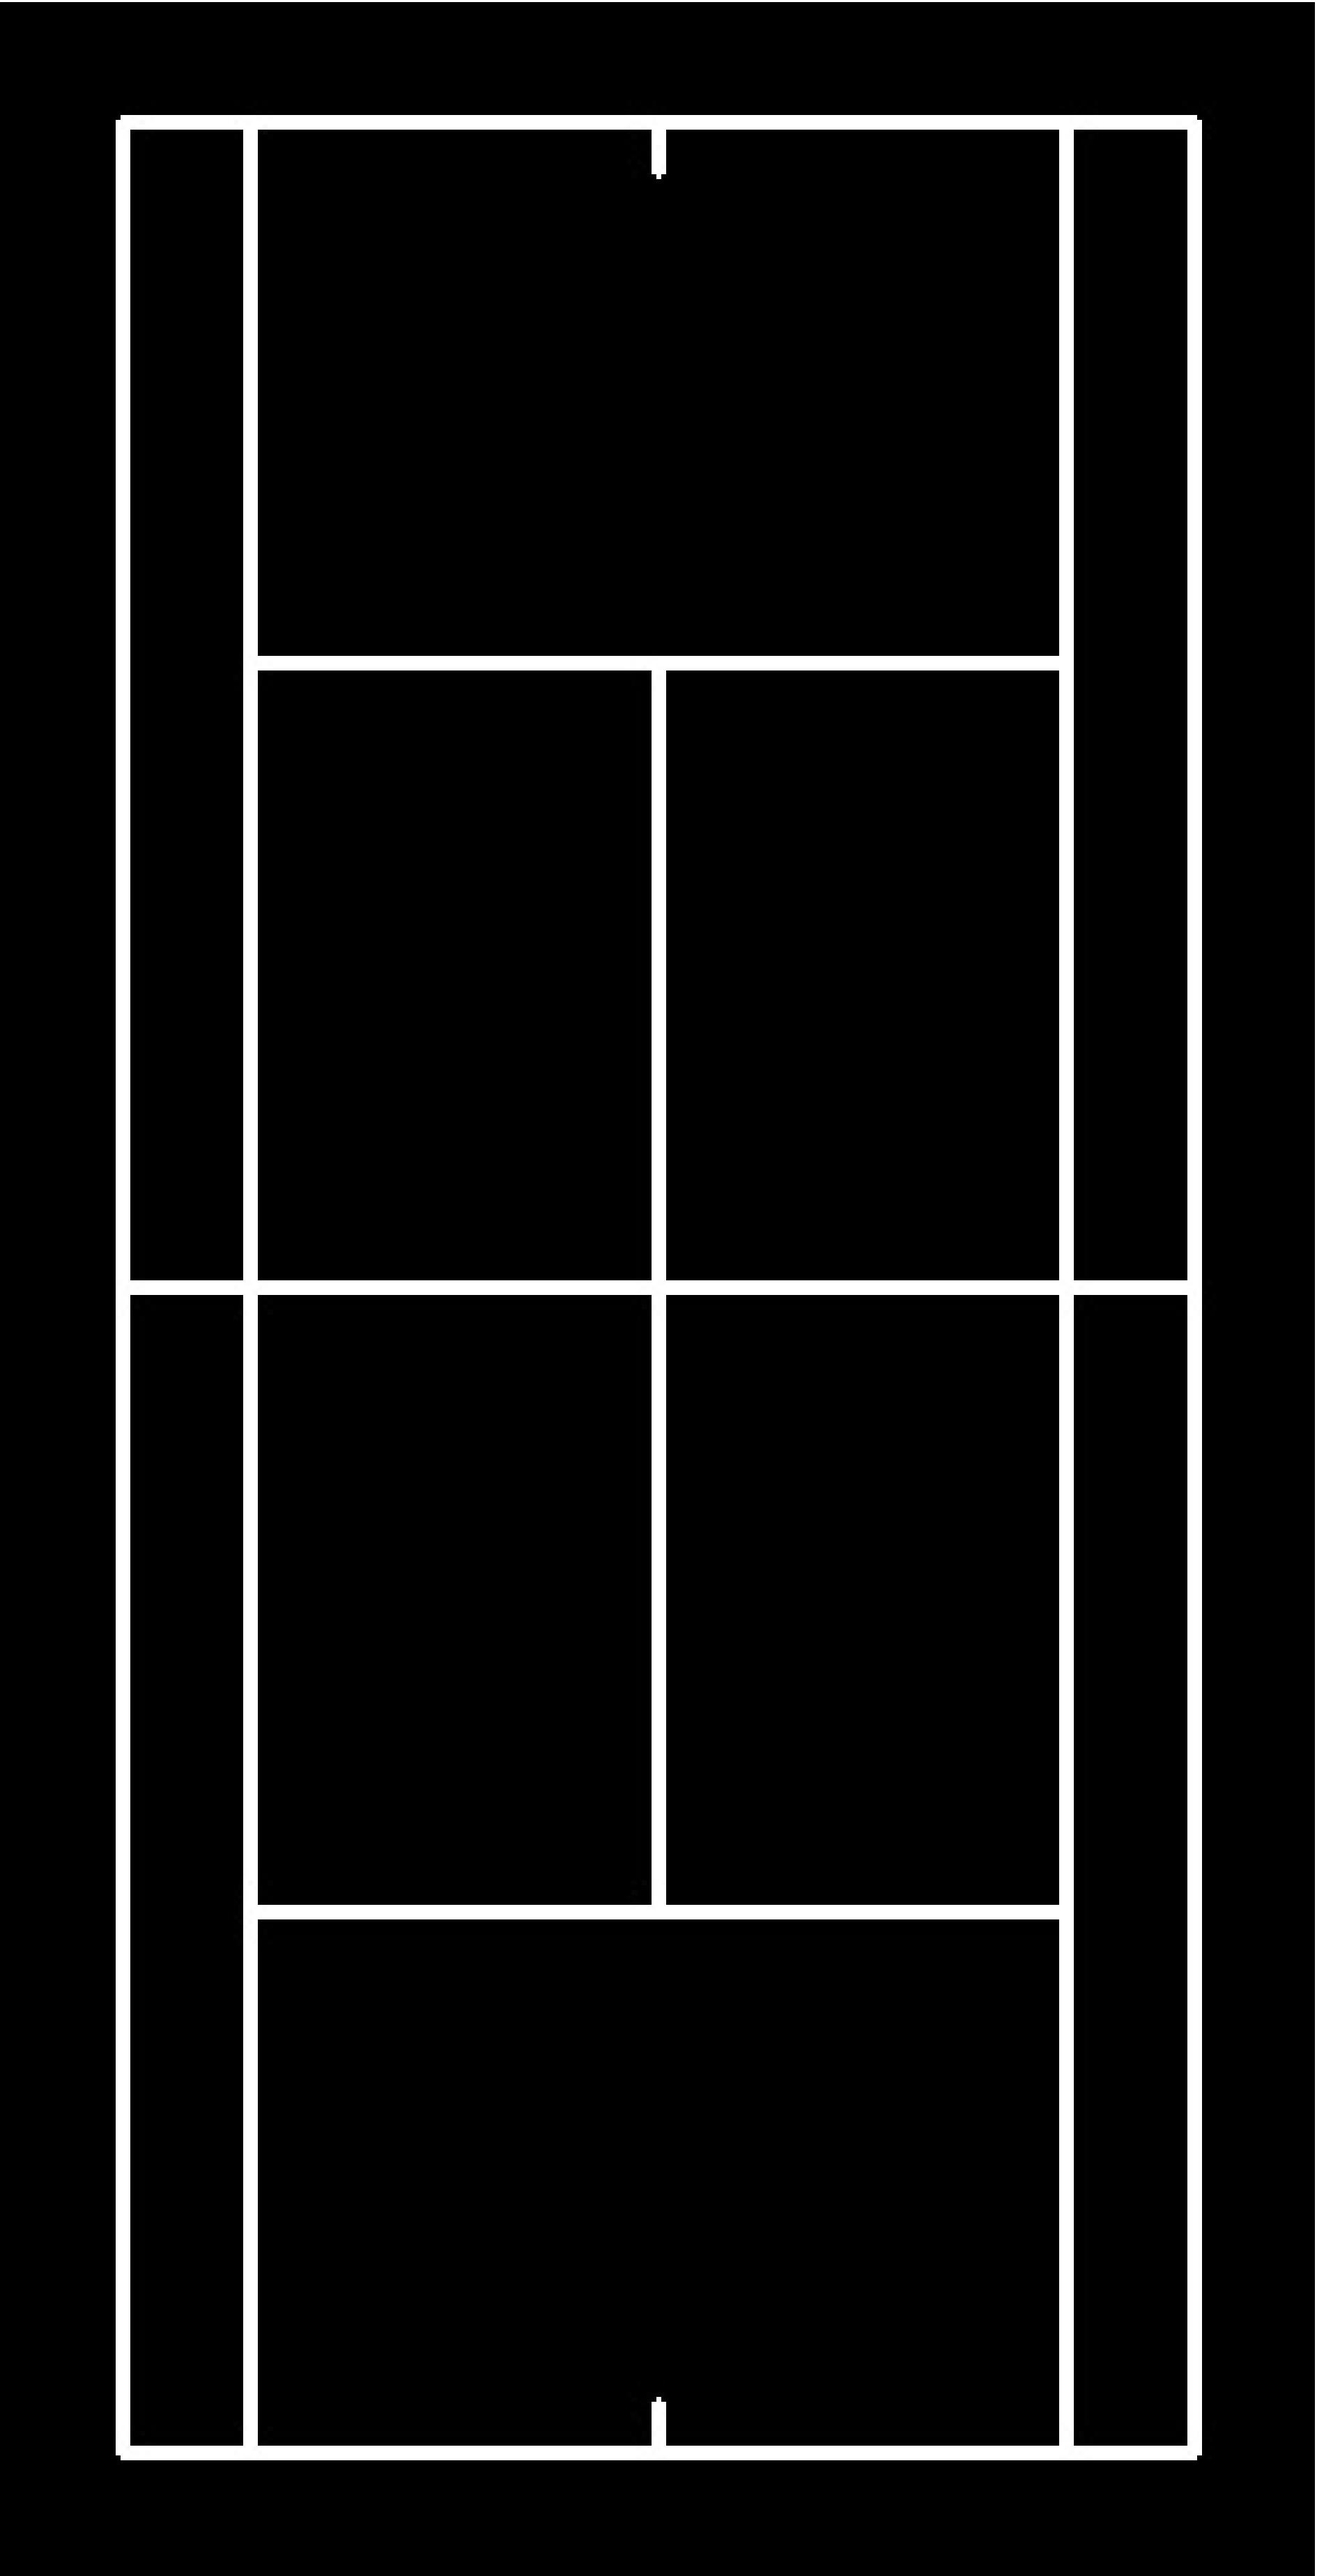
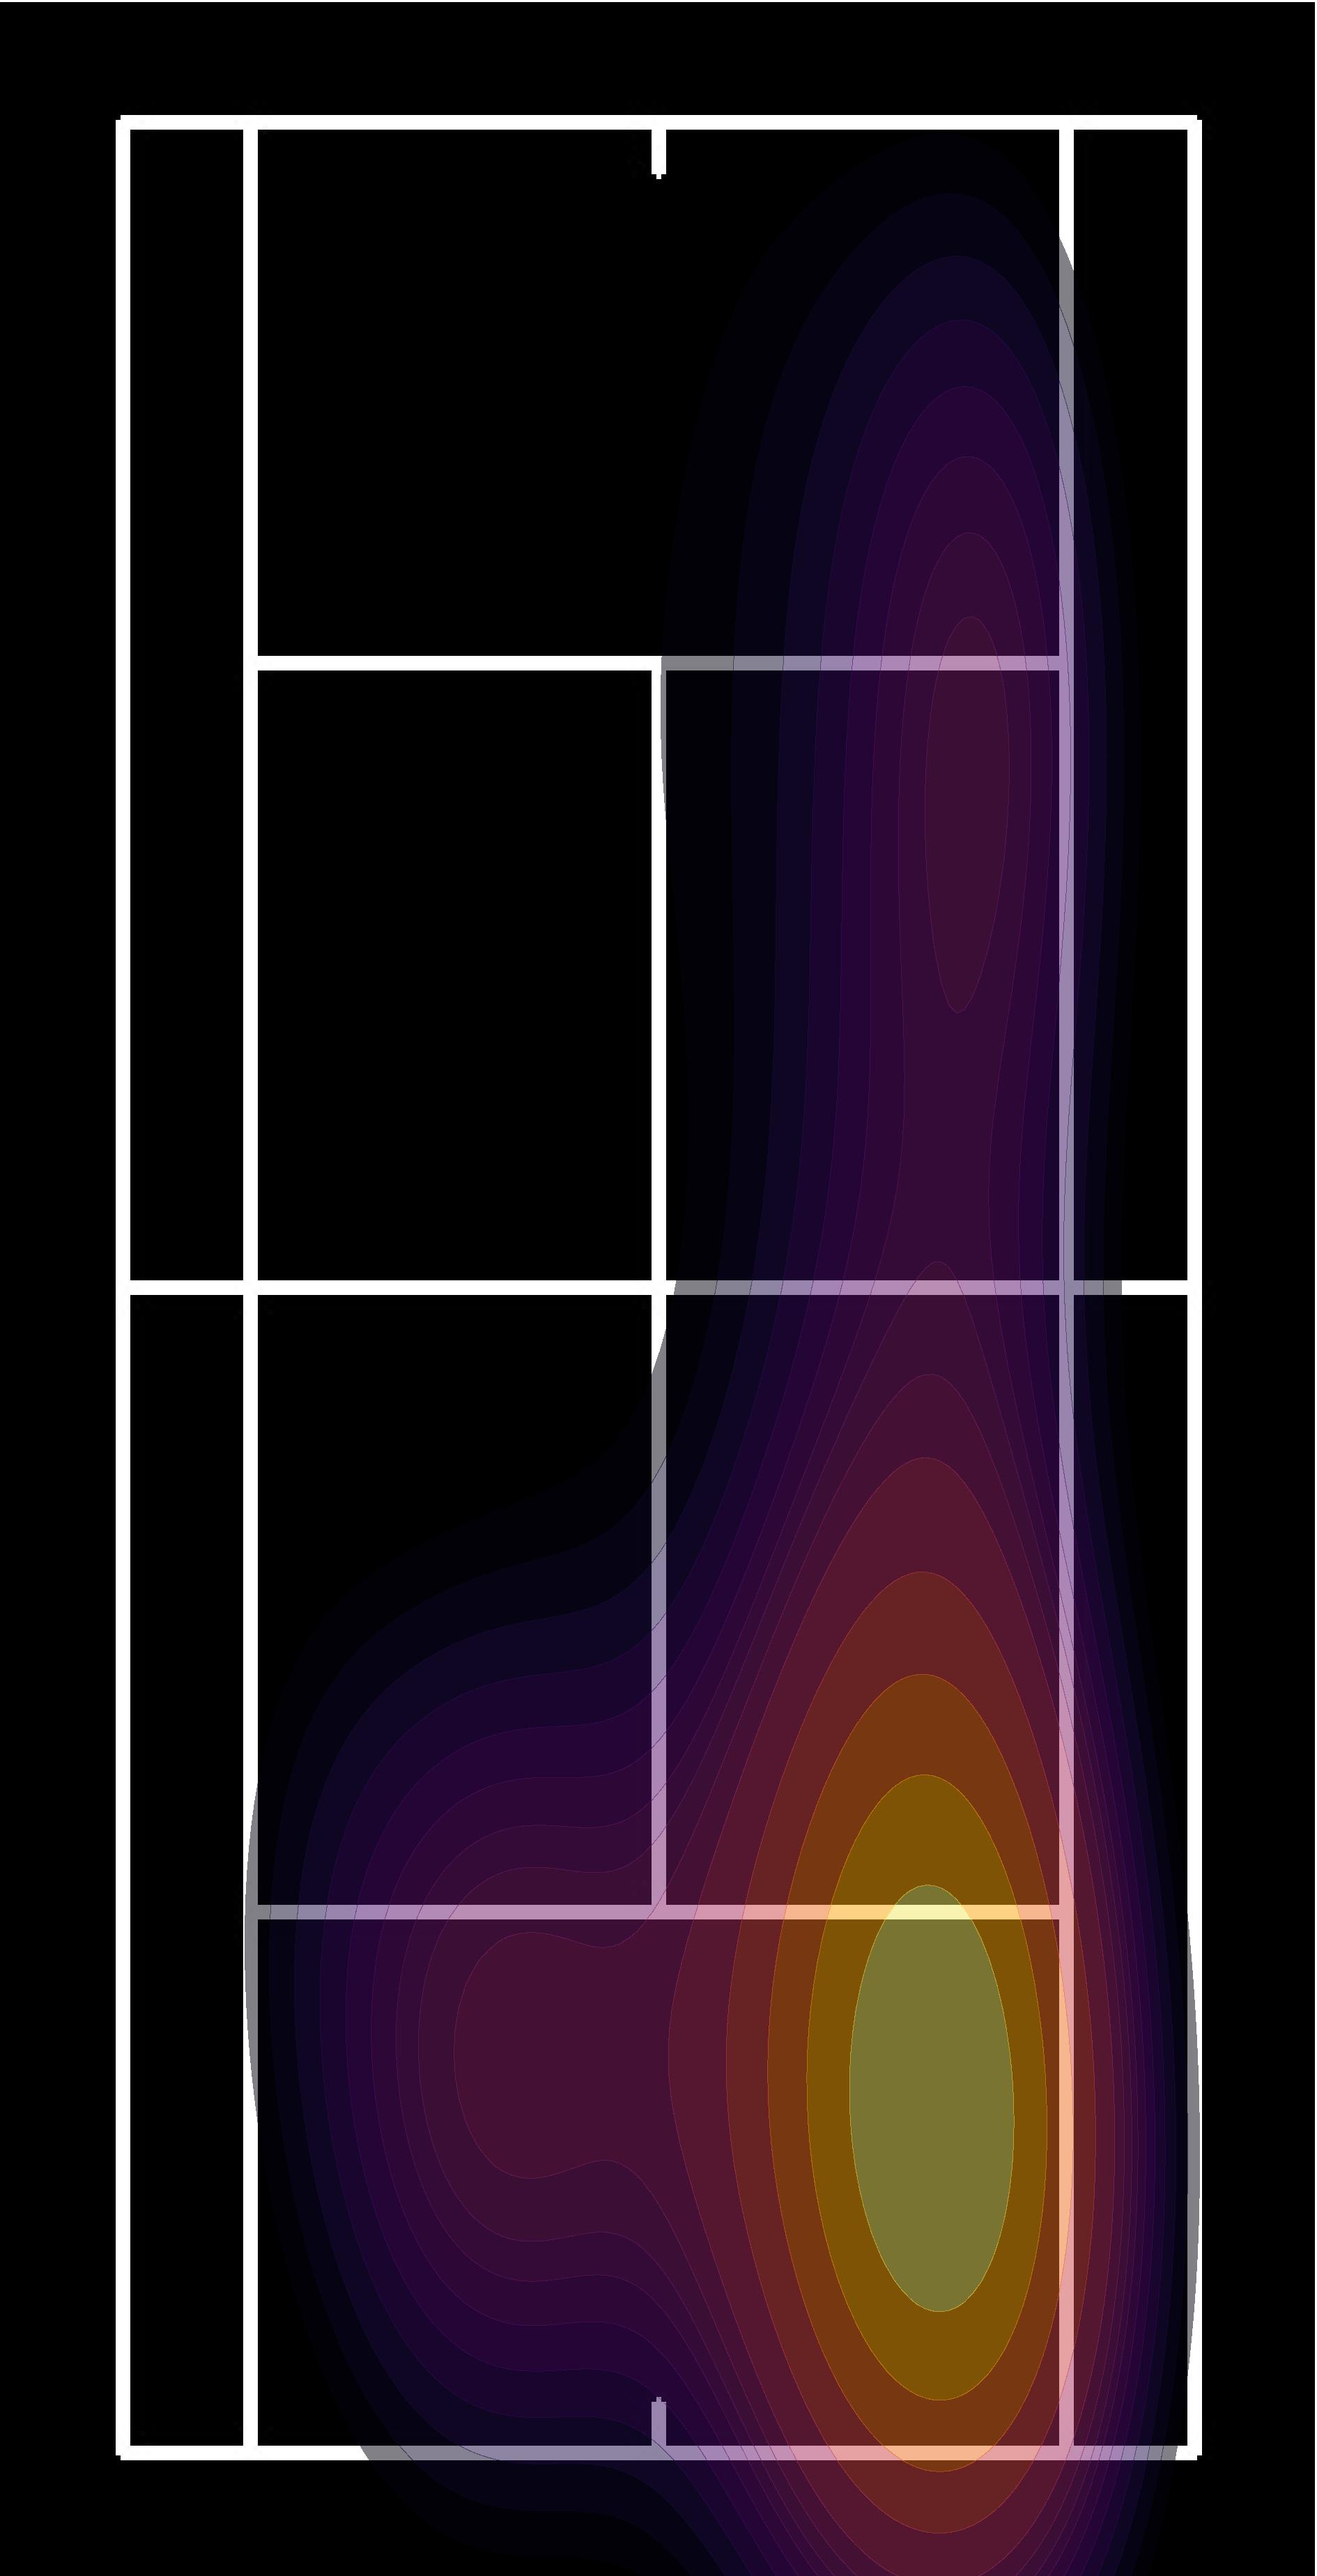
Minor changes

diff --git a/Front-End-Vite/client/src/pages/VideoPage.jsx b/Front-End-Vite/client/src/pages/VideoPage.jsx
@@ -1,7 +1,7 @@
 import React from "react";
 import axios from "axios";
 import { useRef, useState, useEffect } from "react";
-import video from "../../../../Videos Tenis para Analizar/Video Ary 3 Saque.mp4";
+import video from "../../../../Videos Tenis para Analizar/InkedInkedTennisBrothersVideo1080p.mp4";
 import "../stylesheets/VideoPageStylesheets/VideoPage.css";
 import { Button, IconButton } from "@mui/material";
 import ChevronLeftIcon from "@mui/icons-material/ChevronLeft";
@@ -31,7 +31,9 @@ function VideoPage() {
     { x: 300, y: 300, second: 20.0 },
   ];*/
 
-  const pts_pique = [[[100, 194], 1.4], [[65, 126], 2.03], [[61, 192], 2.77], [[74, 357], 3.03], [[80, 399], 3.43], [[54, 378], 5.7], [[4, 50], 9.07], [[91, 83], 10.93], [[42, 385], 12.53], [[30, 447], 17.97], [[2, 295], 21.33], [[121, 466], 23.6], [[122, 427], 23.63], [[123, 380], 23.67], [[124, 329], 23.7], [[124, 270], 23.73], [[125, 208], 23.8], [[126, 143], 23.83], [[149, 24], 25.93], [[145, 80], 26.1], [[160, 422], 26.87], [[160, 437], 26.9], [[158, 451], 26.93], [[154, 416], 27.0], [[143, 417], 27.03], [[158, 425], 27.13]]
+  //const pts_pique = [[[100, 194], 1.4], [[65, 126], 2.03], [[61, 192], 2.77], [[74, 357], 3.03], [[80, 399], 3.43], [[54, 378], 5.7], [[4, 50], 9.07], [[91, 83], 10.93], [[42, 385], 12.53], [[30, 447], 17.97], [[2, 295], 21.33], [[121, 466], 23.6], [[122, 427], 23.63], [[123, 380], 23.67], [[124, 329], 23.7], [[124, 270], 23.73], [[125, 208], 23.8], [[126, 143], 23.83], [[149, 24], 25.93], [[145, 80], 26.1], [[160, 422], 26.87], [[160, 437], 26.9], [[158, 451], 26.93], [[154, 416], 27.0], [[143, 417], 27.03], [[158, 425], 27.13], [[120, 357], 29.27], [[132, 428], 32.07], [[152, 433], 32.4], [[152, 386], 32.43], [[153, 336], 32.47], [[154, 286], 32.5], [[155, 238], 32.53], [[154, 194], 32.6], [[153, 162], 32.63], [[154, 113], 32.67], [[154, 80], 32.7], [[59, 419], 35.0], [[38, 89], 37.47], [[3, 360], 37.97], [[8, 39], 38.23], [[22, 0], 38.27], [[24, 410], 43.2], [[134, 461], 45.77], [[156, 390], 45.97], [[163, 408], 46.03], [[161, 117], 46.7], [[150, 85], 46.73], [[102, 6], 48.73], [[113, 451], 51.4], [[112, 454], 51.43], [[44, 371], 54.93], [[13, 379], 55.47], [[57, 405], 56.37], [[62, 407], 56.63], [[113, 377], 57.7], [[137, 373], 58.07], [[96, 17], 58.4], [[105, 357], 60.33]]
+  const pts_pique = [[[110, 211], 1.4], [[78, 411], 3.43], [[80, 399], 3.47], [[58, 382], 5.7], [[18, 429], 6.2], [[14, 413], 9.07], [[47, 390], 12.53], [[5, 169], 13.33], [[14, 94], 13.37], [[22, 35], 13.43], [[57, 87], 17.5], [[6, 236], 18.43], [[9, 180], 18.47], [[27, 29], 18.6], 
+  [[130, 352], 26.3], [[158, 451], 27.0], [[111, 321], 29.2], [[116, 360], 29.27], [[157, 267], 29.9], [[154, 225], 29.93], [[152, 179], 29.97], [[152, 179], 30.0], [[135, 151], 31.73], [[130, 430], 32.07], [[152, 387], 32.47], [[82, 66], 35.37], [[87, 420], 35.73], [[31, 222], 37.27], [[27, 370], 37.47], [[67, 43], 39.83], [[64, 103], 39.87], [[59, 145], 39.9], [[18, 396], 40.63], [[22, 349], 40.67], [[66, 38], 42.8], [[60, 101], 42.83], [[49, 193], 42.9], [[30, 411], 43.2], [[157, 410], 46.03], [[129, 316], 48.73], [[113, 461], 51.3], [[90, 14], 51.73], [[48, 374], 54.93], [[18, 422], 55.47], [[14, 379], 55.5], [[6, 286], 55.57], [[6, 286], 55.6], [[4, 243], 55.63], [[57, 405], 56.37], [[57, 405], 56.4], [[58, 406], 56.43], [[59, 408], 56.5], [[89, 111], 57.43], [[111, 379], 57.7], [[139, 402], 58.07], [[118, 417], 59.93], [[84, 38], 59.97], [[84, 38], 60.0], [[86, 82], 60.03], [[103, 362], 60.33]]
   console.log("asdasd " + pts_pique[0])
   const canvas = useRef(null);
 

diff --git a/Back-End-Flask/prueba.py b/Back-End-Flask/prueba.py
@@ -26,7 +26,7 @@ import base64 as b64
 
 #heatmap([(110, 211), (78, 411), (80, 399), (58, 382), (18, 429), (14, 413), (47, 390), (5, 169), (14, 94), (22, 35), (57, 87), (6, 236), (9, 180), (27, 29), (130, 352), (158, 451), (111, 321), (116, 360), (157, 267), (154, 225), (152, 179), (152, 179), (135, 151), (130, 430), (152, 387), (82, 66), (87, 420), (31, 222), (27, 370), (67, 43), (64, 103), (59, 145), (18, 396), (22, 349), (66, 38), (60, 101), (49, 193), (30, 411), (157, 410), (129, 316), (113, 461), (90, 14), (48, 374), (18, 422), (14, 379), (6, 286), (6, 286), (4, 243), (57, 405), (57, 405), (58, 406), (59, 408), (89, 111), (111, 379), (139, 402), (118, 417), (84, 38), (84, 38), (86, 82), (103, 362)])
 
-pts_pique = tracking("E:\Guido\Documentos\Programación\Hawkeye\Videos Tenis para Analizar\InkedInkedTennisBrothersVideo1080p.mp4")
+pts_pique = tracking(r"C:\Users\46919295\Documents\GitHub\Hawkeye\Videos Tenis para Analizar\InkedInkedTennisBrothersVideo1080p.mp4")
 print("pique", pts_pique)
 
 # Se crea una nueva lista de puntos sin el N° de frame

diff --git a/Bounce_Detection/bounce_detector_test.py b/Bounce_Detection/bounce_detector_test.py
@@ -71,7 +71,10 @@ minimapa = minimap(pts_pique)
 
 count = 0
 
+numeroFrame = 0
 while True:
+
+	numeroFrame += 1
 	# Agarra el frame actual
 	frame = vs.read()
 	frame = frame[1] if args.get("video", False) else frame
@@ -147,8 +150,9 @@ while True:
 			print("Pica")
 			frame = cv2.putText(frame, 'Pica', center, cv2.FONT_HERSHEY_COMPLEX, 3, (0, 0, 255), 0, 2)
 			if pre_center_pers is not None: 
-				pts_pique.append(pre_center_pers)
-				minimapa = minimap(pts_pique)
+				pts_pique.append([pre_center_pers, float("{:.2f}".format(numeroFrame / fps))])
+				#minimapa = minimap(pts_pique)
+				print("PIQUEEEES", pts_pique)
 
 	#radios.append(radius)
 	acercando = False
@@ -166,7 +170,7 @@ while True:
 	cv2.imshow("Perspective Transformation Resized", result_resized)
 
 	# Se muestra el minimapa
-	cv2.imshow("Minimapa", minimapa)
+	#cv2.imshow("Minimapa", minimapa)
 
 	# Terminar la ejecución si se presiona la "q"
 	key = cv2.waitKey(1) & 0xFF

diff --git a/Tracker/trackerV1/ball_tracking_fn.py b/Tracker/trackerV1/ball_tracking_fn.py
@@ -48,11 +48,11 @@ def ball_tracking(frame, type):
 		c = max(cnts, key=cv2.contourArea)
 		((x, y), radius) = cv2.minEnclosingCircle(c)
 		M = cv2.moments(c)
-		center = (int(int(M["m10"] / M["m00"]) / resizer), int(int(M["m01"] / M["m00"]) / resizer))
+		center = [int(int(M["m10"] / M["m00"]) / resizer), int(int(M["m01"] / M["m00"]) / resizer)]
 
 	#print("CENTRO", center)
 
-	retorno = [center, cnts]
+	retorno = [center]
 
 	return retorno
 
